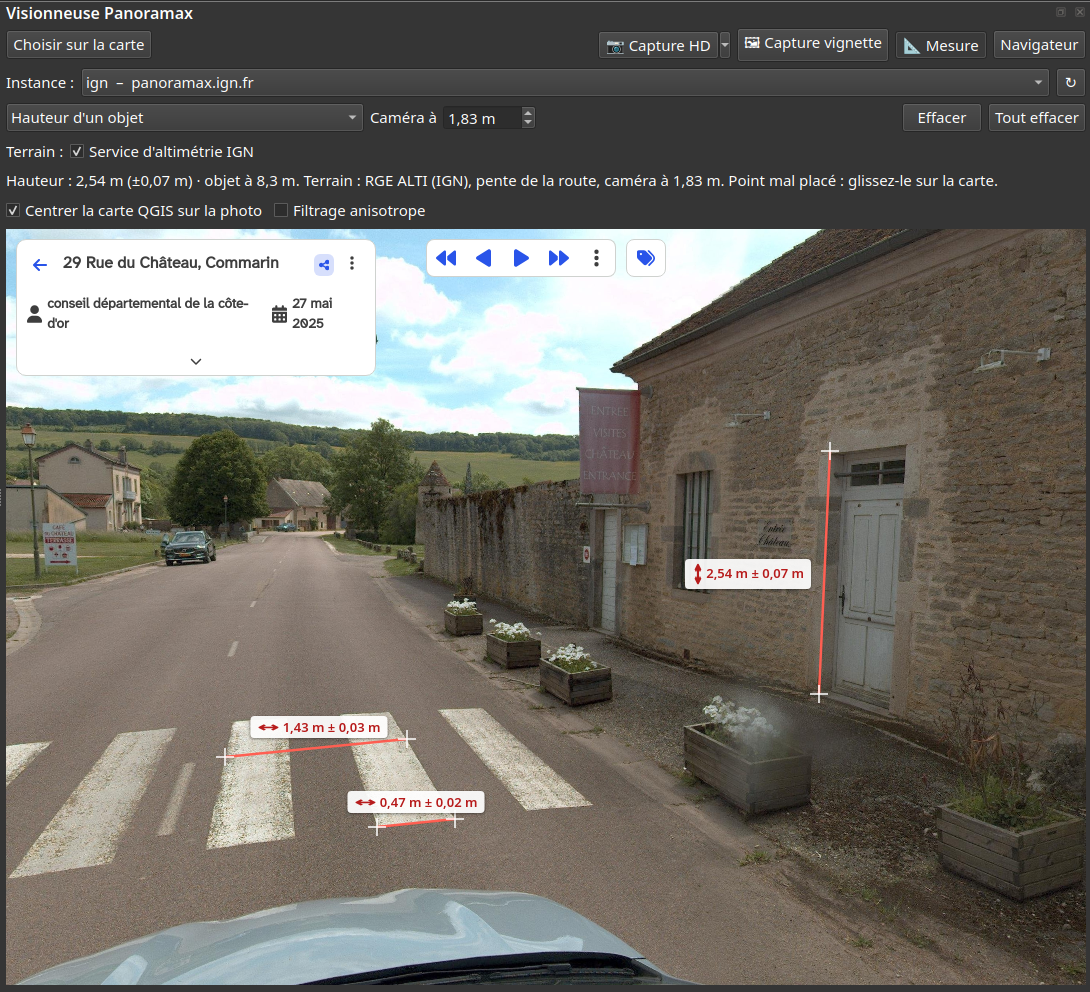
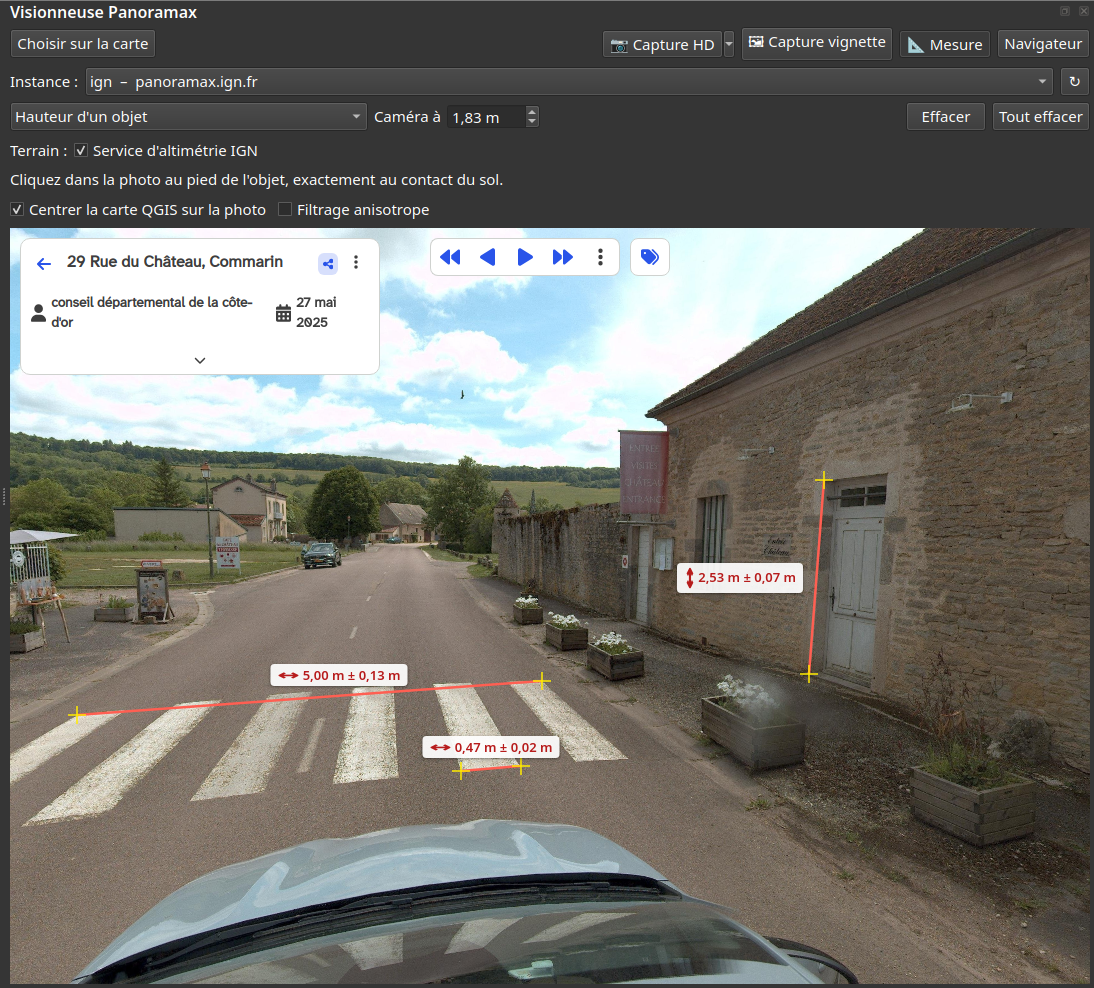
README : nouvelles captures avec les repères jaunes

diff --git a/README.md b/README.md
@@ -28,7 +28,7 @@ Si QtWebEngine n'est pas disponible dans votre installation de QGIS, ou si son m
 
 Cliquer sur « 📐 Mesure » puis choisir le mode. Les méthodes de calcul, le recalage d'une mesure dans un plan défini sur la carte QGIS, les fonctions de calage, les sources d'erreur et des pistes d'amélioration (calculs et prise de vues) sont détaillées dans [docs/MESURES.md](docs/MESURES.md).
 
-![Mesures dans la visionneuse : hauteur d'une porte (2,54 m), largeurs de bandes de passage piéton (1,43 m et 0,47 m)](docs/images/mesures.png)
+![Mesures dans la visionneuse : hauteur d'une porte (2,53 m), largeur du passage piéton (5,00 m) et d'une bande (0,47 m), points en croix jaunes](docs/images/mesures.png)
 
 ### Largeur et hauteur
 
@@ -64,7 +64,7 @@ Le plugin retient la pente de la route autour de la photo (droite ajustée de fa
 
 La précision dépend surtout de celle du GPS des photos (indiquée par Panoramax : 2 m pour le matériel de relevé, 4 à 5 m pour les caméras grand public et les téléphones) et de l'angle entre les visées : visez de préférence avec un croisement d'au moins 30°. Quand l'EXIF de la photo donne le cap au centième de degré, il remplace le cap arrondi au degré de Panoramax.
 
-![Triangulation d'un lampadaire : quatre visées tracées sur la carte QGIS et réticule dans la visionneuse, croisement de 83°, incertitude ±2,0 m](docs/images/triangulation.png)
+![Triangulation d'un lampadaire : quatre visées tracées sur la carte QGIS et réticule jaune dans la visionneuse, croisement de 83°, incertitude ±1,8 m](docs/images/triangulation.png)
 
 ### Mesure libre 3D
 
